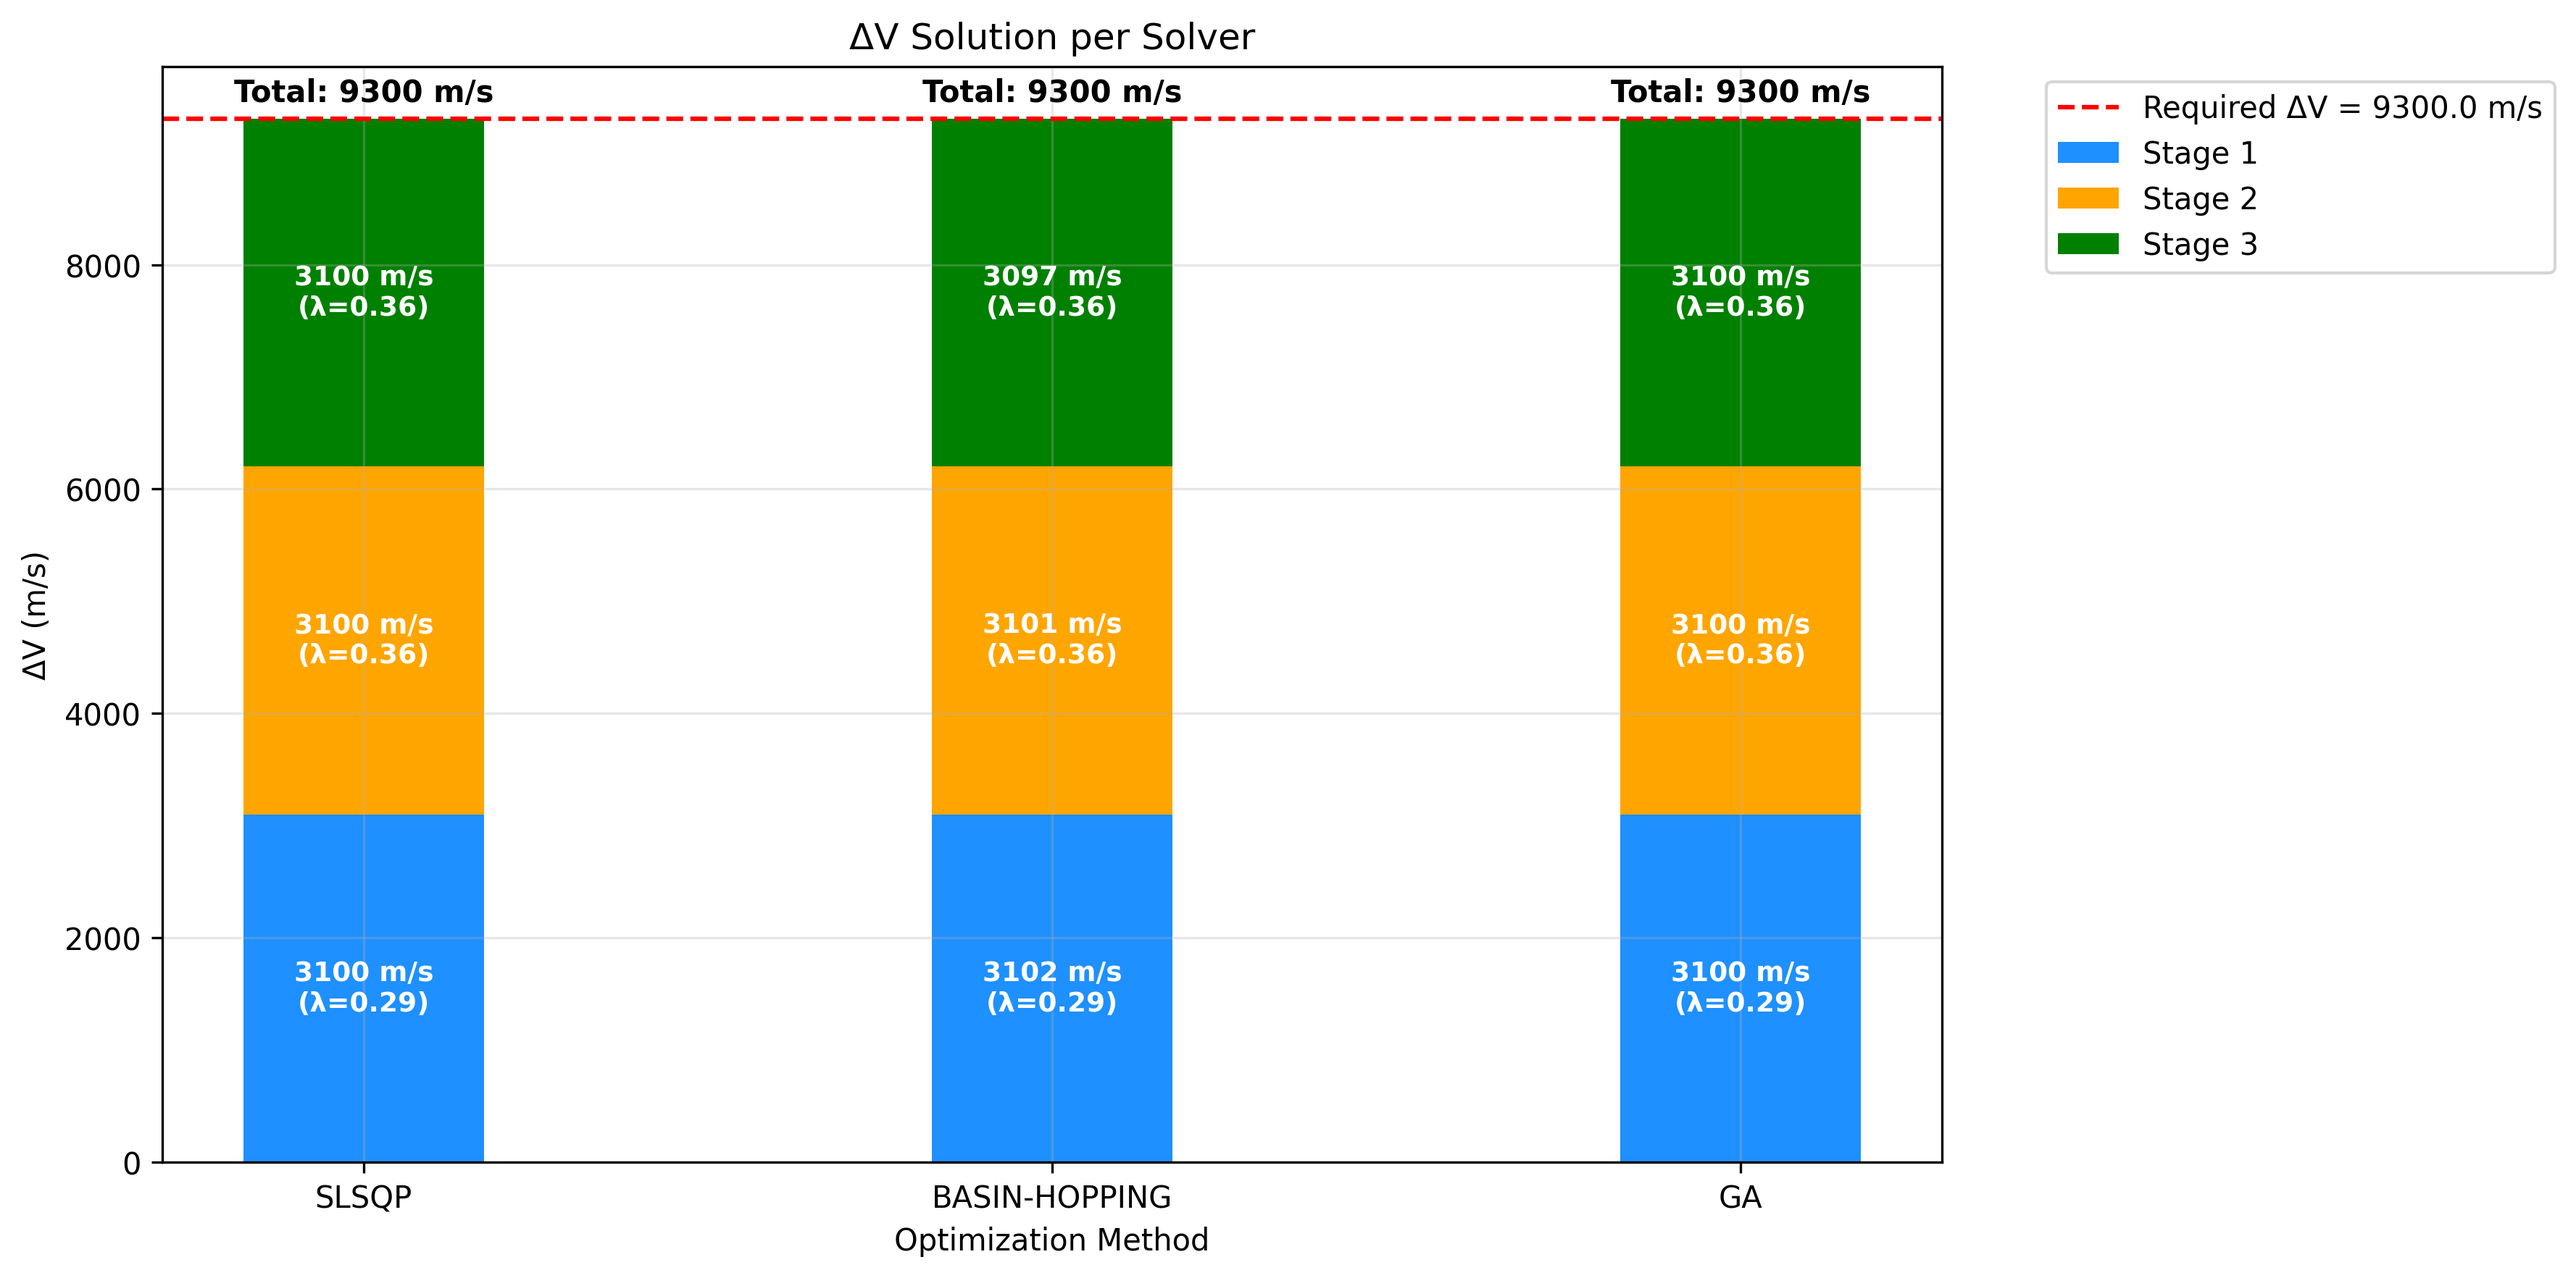
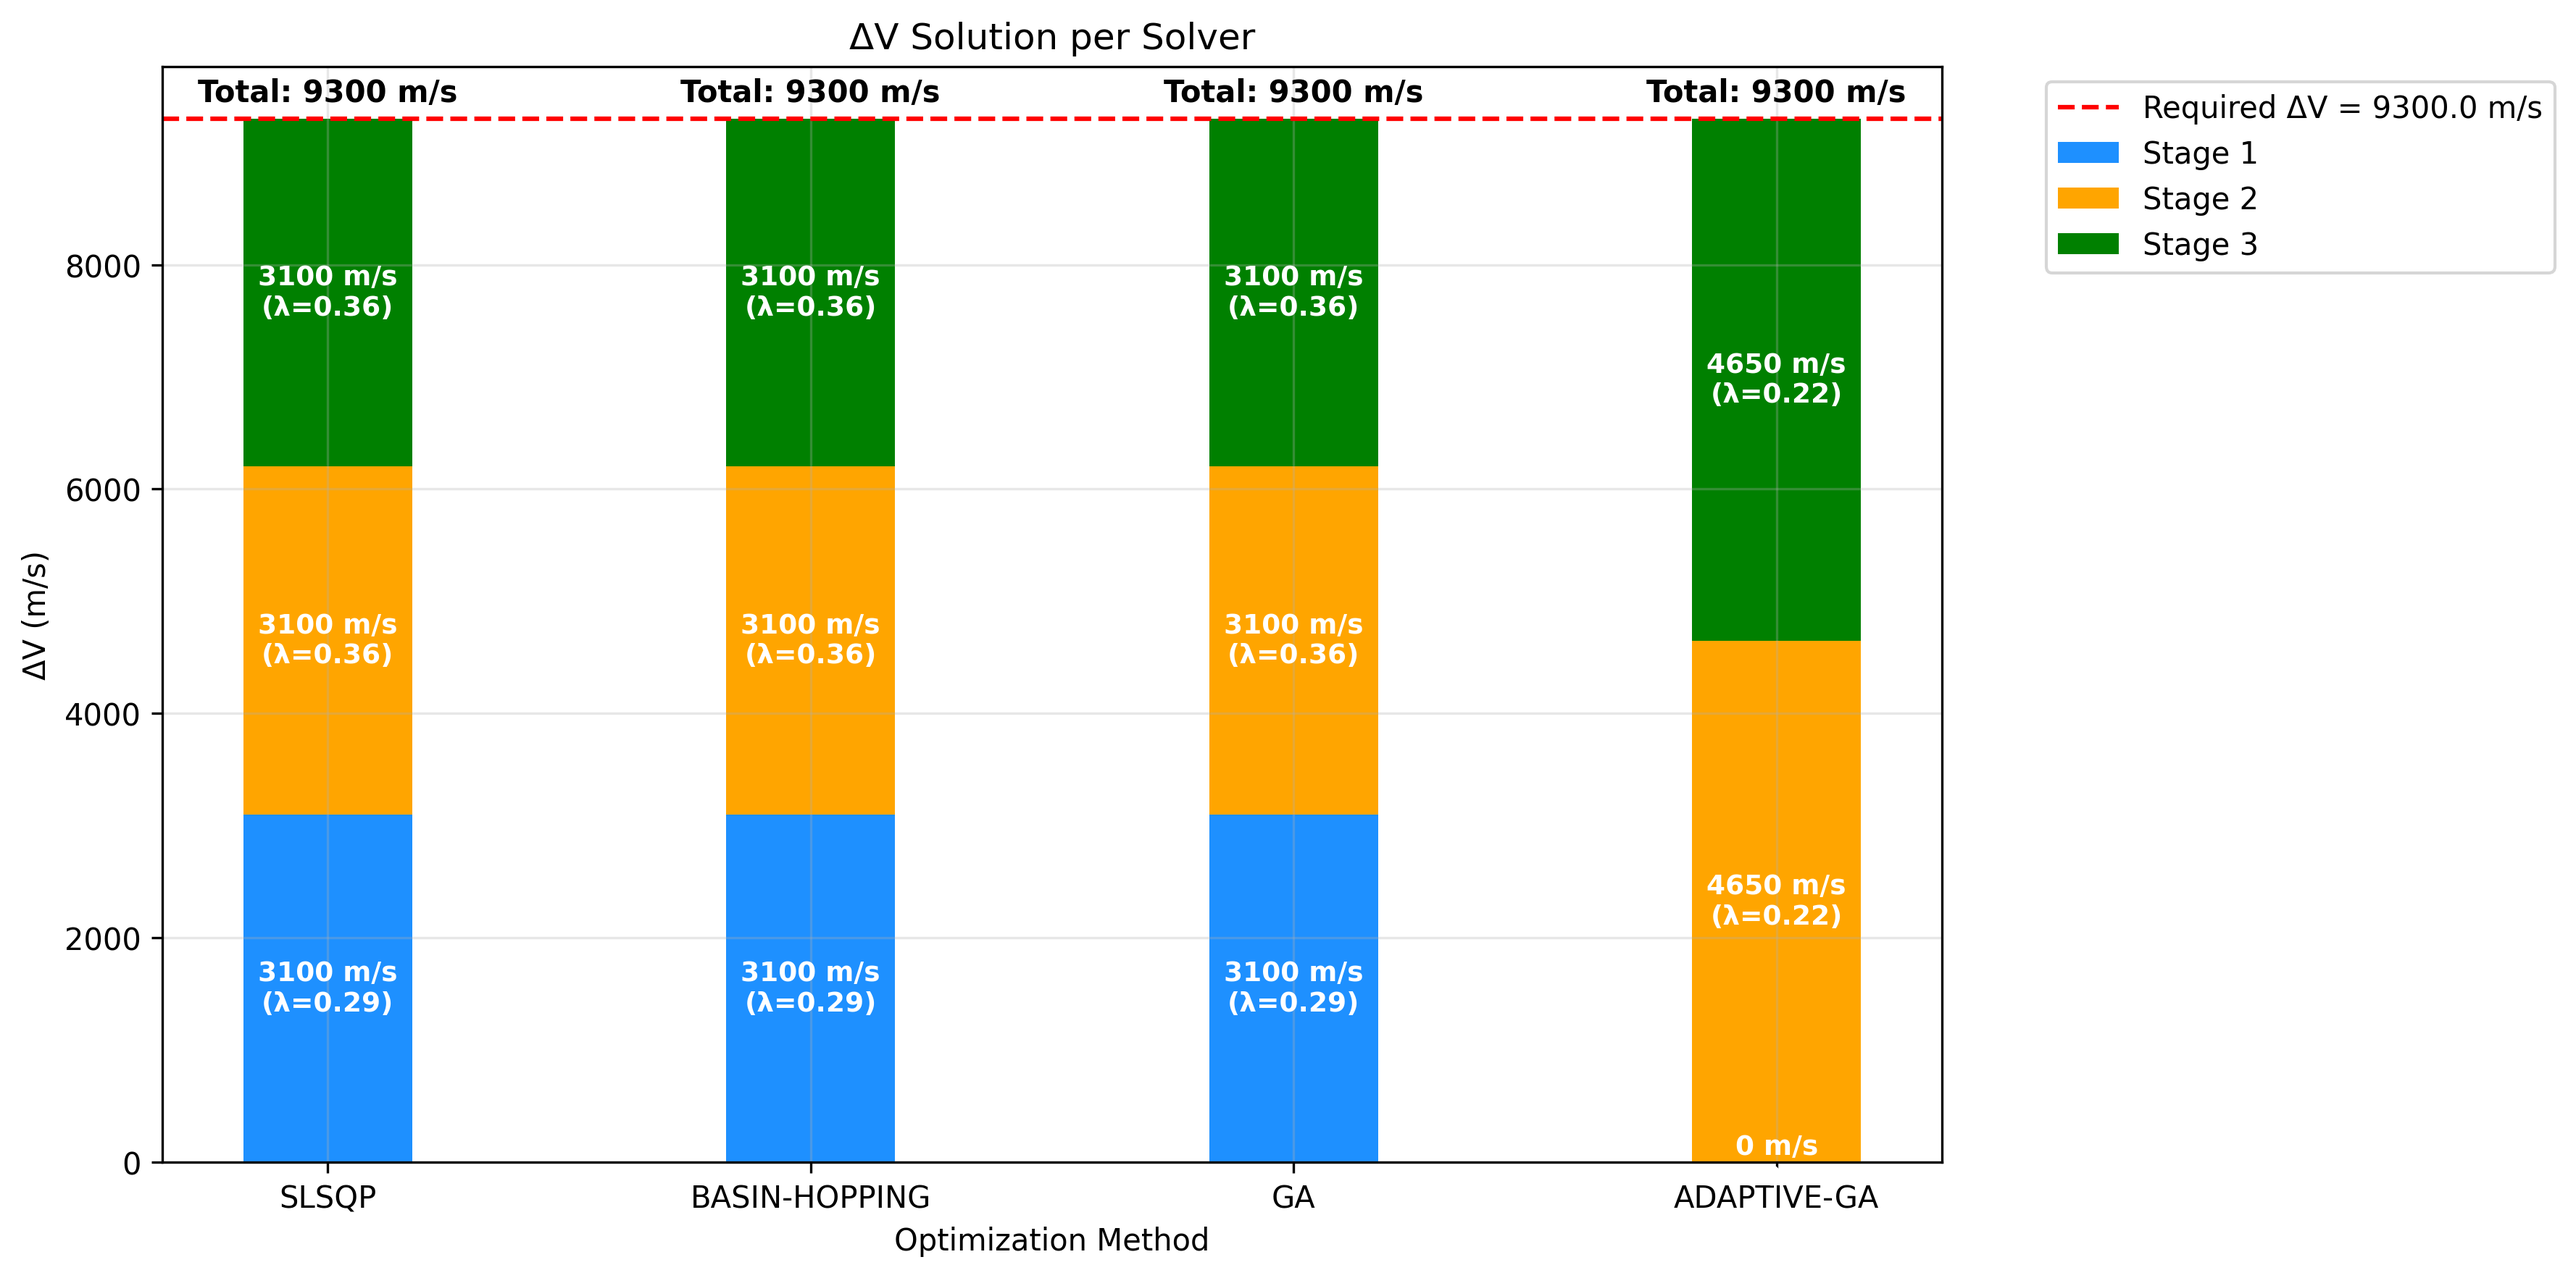
all solvers working

Changed region(s): [[0.2498, 0.0623, 0.562, 0.966], [0.6245, 0.0623, 0.7494, 0.966], [0.0624, 0.0623, 0.1873, 0.966]]

diff --git a/Stage_Opt/payload_optimization.py b/Stage_Opt/payload_optimization.py
@@ -458,28 +458,14 @@ def solve_with_adaptive_ga(initial_guess, bounds, G0, ISP, EPSILON, TOTAL_DELTA_
                     self.update_parameters(population, fitnesses, generations_without_improvement)
                 
                 self.execution_time = time.time() - start_time
-                return best_solution, best_fitness
-
+                return best_solution
+        
         # Create and run adaptive GA, passing TOTAL_DELTA_V, ISP, and EPSILON
         ga = AdaptiveGA(config, len(initial_guess), bounds, TOTAL_DELTA_V, ISP, EPSILON)
-        optimal_solution, best_fitness = ga.optimize()
+        optimal_solution = ga.optimize()
         
-        # Calculate metrics for the optimal solution
-        mass_ratios = calculate_mass_ratios(optimal_solution, ISP, EPSILON)
-        payload_fraction = calculate_payload_fraction(mass_ratios)
-        
-        # Return results in format expected by plotting functions
-        return {
-            'method': 'ADAPTIVE-GA',
-            'time': ga.execution_time,
-            'solution': optimal_solution,
-            'fitness': best_fitness,
-            'mass_ratios': mass_ratios,
-            'payload_fraction': payload_fraction,
-            'dv': optimal_solution,  # For delta-v breakdown plot
-            'error': abs(np.sum(optimal_solution) - TOTAL_DELTA_V),  # Constraint violation
-            'history': ga.history  # For convergence plots
-        }
+        # Return just the optimal solution for consistency with other methods
+        return optimal_solution
         
     except Exception as e:
         logger.error(f"Adaptive GA optimization failed: {e}")
@@ -765,6 +751,7 @@ if __name__ == "__main__":
                 
                 # For GA methods, format results consistently with other methods
                 execution_time = time.time() - start_time
+                optimal_solution = np.asarray(optimal_solution).flatten()  # Ensure 1D array
                 mass_ratios = calculate_mass_ratios(optimal_solution, ISP, EPSILON, G0)
                 payload_fraction = calculate_payload_fraction(mass_ratios)
                 
@@ -774,7 +761,7 @@ if __name__ == "__main__":
                     'dv': [float(x) for x in optimal_solution],
                     'stage_ratios': [float(x) for x in mass_ratios],
                     'payload_fraction': float(payload_fraction),
-                    'error': 0.0
+                    'error': float(abs(np.sum(optimal_solution) - TOTAL_DELTA_V))
                 }
                 results.append(result)
                 logger.info(f"Successfully completed {method} optimization")
